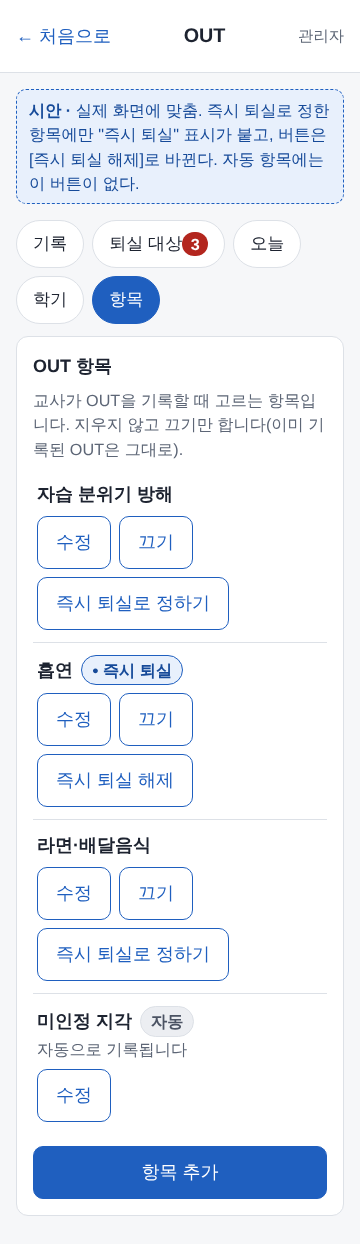
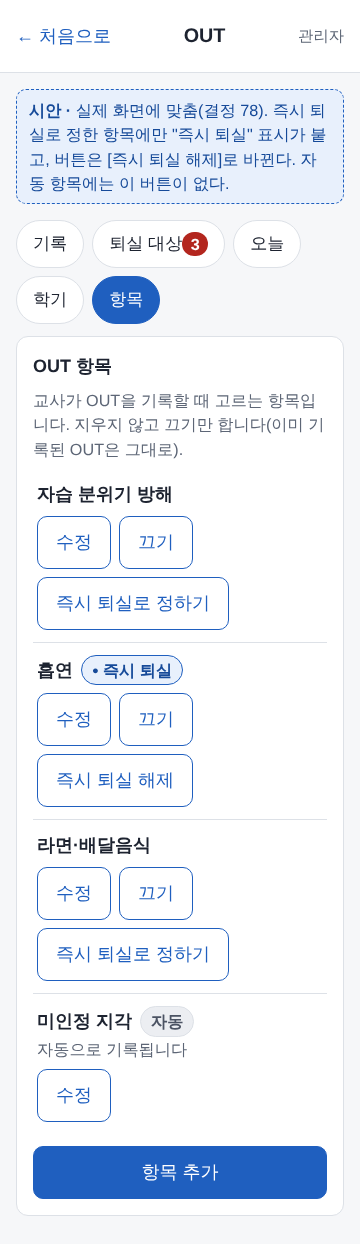
4단계 확인표 J·L 보강(결정 78 문구, 임시 퇴실 13단계) (#199)
Claude-Session: https://claude.ai/code/session_01By8Yaa8urwsSoHVw3FXUZa

Changed region(s): [[0.0611, 0.0611, 0.9167, 0.1527]]

diff --git a/docs/design/stage4-teacher-checks.md b/docs/design/stage4-teacher-checks.md
@@ -1,7 +1,7 @@
 # 4단계 선생님 확인 체크리스트
 
 > 4단계(시범 운영 준비)에 새로 들어간 기능을 선생님이 실제 Apps Script에서 따라 하며 확인하는 순서입니다. 형식은 `stage2-teacher-checks.md`·`stage3-teacher-checks.md`와 같습니다.
-> **A~F**는 코딩A가 만든 기능(휴일·기간 일괄 설정 C24, 근무 기록표 엑셀 C14b, 서류 체크리스트 C27, 연락처 C29, 방학 중식 C30)이고(`stage4-teacher-checks-coding-a.md`의 내용을 합친 것), **G~K**는 확인서 두 종(C25)·식수 집계(C19b)·입퇴실 세부(C26)·즉시 퇴실 항목(C19b·R17)·학사 프로그램(C28)입니다. **L**은 임시 퇴실·일괄 퇴실을 위한 자리입니다(병합 뒤 채웁니다).
+> **A~F**는 코딩A가 만든 기능(휴일·기간 일괄 설정 C24, 근무 기록표 엑셀 C14b, 서류 체크리스트 C27, 연락처 C29, 방학 중식 C30)이고(`stage4-teacher-checks-coding-a.md`의 내용을 합친 것), **G~K**는 확인서 두 종(C25)·식수 집계(C19b)·입퇴실 세부(C26)·즉시 퇴실 항목(C19b·R17)·학사 프로그램(C28)입니다. **L**은 임시 퇴실입니다(학년 일괄 퇴실 L13은 화면이 병합된 뒤 채웁니다).
 > **사진 읽는 법:** 각 절 끝의 "시안 사진"은 D 세션 미리보기의 휴대폰(360px) 모양입니다. 실제 화면은 숫자·이름이 다르지만 **모양과 표시가 이렇게 나오면 통과**입니다. 표의 "사진" 칸은 선생님이 찍은 실제 화면을 붙이는 자리입니다. 화면·버튼 이름이 실제와 다르면 ×가 아니라 "이름 차이"로 적어 주세요(디자인 세션이 이 문서를 고칩니다).
 
 ## 읽는 법
@@ -233,22 +233,22 @@
 
 관리자가 OUT **항목** 중 일부(예: 흡연·음주·라면·배달음식)를 **즉시 퇴실 항목**으로 정하면, 그 항목의 OUT **한 건이 한 번에 2OUT(퇴실 대상)**이 됩니다. 그 뒤 절차(학부모 면담 기록 → 관리자 퇴실 확정)는 같습니다.
 
-> **알려진 한계(오류 아님, 총괄에 알림):** 결정 78은 "지정한 **뒤에 기록된** 위반부터 2OUT, 이미 기록된 위반은 그대로 1OUT"인데, 지금 화면·서버(`setOutInstantRule`)는 아직 **옛 규칙(이미 기록된 OUT에도 소급)** 대로 움직이고, 확인창 문구도 옛 문구입니다. 규칙 함수(`outInstantNext_`)는 결정 78대로 만들어져 있고 화면 연결은 다음 PR입니다. 아래 J6은 지금 모양만 보고, **J9에서 연결 뒤 단계를 채웁니다.**
+> **결정 78(#192):** 즉시 퇴실로 **정한 뒤 기록된** 위반부터 한 건이 2OUT입니다. **정하기 전에 기록된 위반은 그대로 1OUT**(소급하지 않음)이고, 해제해도 정해 둔 동안 기록된 OUT은 2OUT으로 남습니다.
 
 | 번호 | 누가 | 누르는 것 | 이렇게 보이면 통과 | 사진 | 결과 |
 | --- | --- | --- | --- | --- | --- |
 | J1 | 소유자 | 홈 → **OUT** → **[항목]** 탭을 엽니다 | 항목 카드에 항목마다 **[수정]·[끄기]·[즉시 퇴실로 정하기]**가 있다. 자동 항목("미인정 지각" 등 **자동** 표시)에는 [즉시 퇴실로 정하기]가 **없다**. 즉시 퇴실로 정해 둔 항목이 없으면 "즉시 퇴실" 표시가 없다 | | |
-| J2 | 소유자 | [항목 추가]로 **"가짜: 즉시 퇴실 시험"** 항목을 만들고 그 줄의 **[즉시 퇴실로 정하기]**를 누릅니다 | 확인창 "즉시 퇴실 항목으로 정합니다"에 **"이 항목으로 OUT을 한 번 기록하면 바로 2OUT(퇴실 대상)이 됩니다." / "이번 기간에 이미 기록된 이 항목의 OUT에도 그대로 적용됩니다." / "퇴실 확정은 지금처럼 학부모 면담 기록 뒤 관리자가 합니다."**가 있다. (둘째 줄은 결정 78 이전의 소급 문구입니다 — 위 한계 참고) | | |
-| J3 | 소유자 | 확인창에서 **[즉시 퇴실로 정하기]**로 확정합니다 | 알림 "즉시 퇴실 항목으로 정했습니다."(이미 기록된 OUT이 있으면 "이번 기간 학생 N명이 퇴실 대상이 됩니다.")가 나오고 그 항목 이름 옆에 **"즉시 퇴실" 표시**가, 버튼은 **[즉시 퇴실 해제]**로 바뀐다. 다른 항목은 그대로다 | | |
-| J4 | 시험1 | **OUT 기록**에서 1OUT·2OUT이 없는 가짜 학생에게 방금 만든 **즉시 퇴실 항목으로 OUT 한 건**을 저장합니다 | 저장하면 그 학생이 **한 건만으로 퇴실 대상**(2OUT) 탭에 나타난다. [퇴실 확정]은 학부모 면담 기록 전까지 눌리지 않는다(2단계 C7과 같다). 홈 카드·OUT 현황의 퇴실 대상 숫자가 1 늘었다 | | |
+| J2 | 소유자 | [항목 추가]로 **"가짜: 즉시 퇴실 시험"** 항목을 만들고 그 줄의 **[즉시 퇴실로 정하기]**를 누릅니다 | 확인창 "즉시 퇴실 항목으로 정합니다"에 **"지금부터 기록되는 이 항목의 위반부터 OUT 한 번이 바로 2OUT(퇴실 대상)이 됩니다." / "이미 기록된 위반은 그대로 셉니다(소급하지 않습니다)." / "퇴실 확정은 지금처럼 학부모 면담 기록 뒤 관리자가 합니다."**가 있다 | | |
+| J3 | 소유자 | 확인창에서 **[즉시 퇴실로 정하기]**로 확정합니다 | 알림 **"즉시 퇴실 항목으로 정했습니다. 지금부터 기록되는 위반부터 2OUT으로 셉니다."**가 나오고(퇴실 대상이 새로 생기지 않는다) 그 항목 이름 옆에 **"즉시 퇴실" 표시**가, 버튼은 **[즉시 퇴실 해제]**로 바뀐다. 다른 항목은 그대로다 | | |
+| J4 | 시험1 | 정한 **뒤에**, **OUT 기록**에서 1OUT·2OUT이 없는 가짜 학생에게 방금 만든 **즉시 퇴실 항목으로 OUT 한 건**을 저장합니다 | 저장하면 그 학생이 **한 건만으로 퇴실 대상**(2OUT) 탭에 나타난다. [퇴실 확정]은 학부모 면담 기록 전까지 눌리지 않는다(2단계 C7과 같다). 홈 카드·OUT 현황의 퇴실 대상 숫자가 1 늘었다 | | |
 | J5 | 시험2(출결 담당 → 담임 → 근무표 담당자) | OUT 화면을 엽니다(주소 끝에 `?page=outs`) | **[항목] 탭이 없다.** 항목 이름은 보여도 **[즉시 퇴실로 정하기]·[끄기]가 없다**(관리자만). 서버에 직접 부르면 거부된다(컴퓨터 테스트가 확인함) | | |
-| J6 | 소유자 | **[즉시 퇴실 해제]**를 누릅니다(확인창 없이 바로 해제됨) | "즉시 퇴실을 해제했습니다."(영향 받는 학생이 있으면 "N명이 퇴실 대상에서 빠집니다.")가 나온다. "즉시 퇴실" 표시가 사라지고 버튼이 [즉시 퇴실로 정하기]로 돌아온다. (지금은 소급 규칙이라 J4의 학생이 **1OUT으로 돌아가는 것이 정상**) | | |
+| J6 | 소유자 | **[즉시 퇴실 해제]**를 누릅니다(확인창 없이 바로 해제됨) | **"즉시 퇴실을 해제했습니다. 이미 지정 중에 기록된 OUT은 그대로 2OUT으로 남고, 지금부터 기록되는 위반은 1OUT으로 셉니다."**가 나온다. "즉시 퇴실" 표시가 사라지고 버튼이 [즉시 퇴실로 정하기]로 돌아온다. **J4의 학생은 그대로 퇴실 대상**이다(정해 둔 동안 기록된 OUT) | | |
 | J7 | 시험1 | **해제한 뒤**, 다른 가짜 학생(OUT 없음)에게 같은 항목으로 OUT을 저장합니다 | 이번에는 **1OUT**이다(저장 전 "2OUT" 안내가 없다) | | |
-| J8 | 소유자 | 시험 항목 **"가짜: 즉시 퇴실 시험"**을 **[끄기]**로 끕니다 | 항목이 입력 목록에서 빠지고 **삭제되지 않는다**(꺼짐 표시로 남는다). 이미 기록된 OUT은 그대로다. 시험한 OUT은 OUT 취소로 되돌린다 | | |
-| J9 | (자리) | **결정 78 연결 뒤 채움:** 지정한 **뒤**에 기록한 OUT만 2OUT, 지정 전에 기록된 OUT은 그대로 1OUT, 해제하면 그 뒤 위반부터 1OUT, 확인창 문구도 바뀜 | 연결 PR 병합 뒤 작성 | | |
+| J8 | 소유자 | 시험 항목 **"가짜: 즉시 퇴실 시험"**(J9를 했다면 "가짜: 소급 시험"도)을 **[끄기]**로 끕니다 | 항목이 입력 목록에서 빠지고 **삭제되지 않는다**(꺼짐 표시로 남는다). 이미 기록된 OUT은 그대로다. 시험한 OUT은 OUT 취소로 되돌린다 | | |
+| J9 | 소유자 | **정하기 전에 기록된 OUT은 소급하지 않는지** 봅니다. 시험 항목을 [끄기] 전에 **새 항목 "가짜: 소급 시험"**을 만들어 (정하지 않은 채) 다른 가짜 학생에게 OUT 한 건을 기록하고, 그 뒤 그 항목을 **[즉시 퇴실로 정하기]**로 정합니다 | 정한 뒤에도 그 학생은 **1OUT 그대로**다(퇴실 대상 탭에 새로 나타나지 않는다). 이제 같은 학생에게 같은 항목으로 **새 OUT을 한 건 더** 기록하면 바로 **퇴실 대상**이 된다 | | |
 
-> 이미 확인됨: 즉시 항목 한 건 = 2OUT 판정 표(규칙 함수), **지정한 뒤 기록된 OUT부터**만 2OUT(`outInstantNext_`, 규칙 함수 수준 — 화면 연결은 J9), OUT 수를 세는 모든 곳(홈 카드·현황·퇴실 확정)이 같은 판정을 씀, 관리자 외 거부, 자동 항목은 지정할 수 없음.
-> 확인 못 한 것: 홈 카드·퇴실 대상 탭의 숫자가 J4·J6 전후로 **실제 시트에서** 바뀌는지(위 단계가 그 확인입니다).
+> 이미 확인됨: 즉시 항목 한 건 = 2OUT 판정 표(규칙 함수), **지정한 뒤 기록된 OUT부터**만 2OUT(`outInstantNext_`, 화면·서버 연결 #192), 지정 구간 이력은 스크립트 속성에 저장(시트 구조 변경 없음), OUT 수를 세는 모든 곳(홈 카드·현황·퇴실 확정)이 같은 판정을 씀, 관리자 외 거부, 자동 항목은 지정할 수 없음.
+> 확인 못 한 것: 홈 카드·퇴실 대상 탭의 숫자가 J4·J6 전후로 **실제 시트에서** 바뀌는지(위 단계가 그 확인입니다). J9는 **지정 시각 기준**이라 같은 분 안에 정하고 기록하면 순서가 헷갈릴 수 있으니 한두 분 사이를 두세요.
 
 **시안 사진 (360px)**
 
@@ -291,20 +291,38 @@
 | --- | --- | --- |
 | ![저장 확인](stage4-photos/program-confirm.png) | ![빼기 확인](stage4-photos/program-remove.png) | ![프로그램 취소 확인](stage4-photos/program-cancel.png) |
 
-## L. 임시 퇴실·학년 일괄 퇴실 (자리만 — 병합 뒤 채웁니다)
+## L. 임시 퇴실·학년 일괄 퇴실 (C26, 결정 70·74①·77, 약 35분)
 
-아직 병합되지 않은 기능이라 **단계는 비워 두고 어떤 것을 볼지만** 적습니다. 병합되면 디자인 세션이 이 절을 채우고, 그때까지 이 절의 번호 칸은 비어 있습니다.
+**건강상 임시 퇴실**: 급식을 끊고(조식은 바로, 석식은 미실시 규칙) 자리·침대도 비우지만, **다시 들어오는 것을 막지 않습니다**(일반 퇴실과 다른 점은 이것뿐). 사유는 **건강상만** 씁니다(가정 사정·대회 출전 같은 짧은 부재는 사전 특이사항). 시험한 신청은 끝에서 취소합니다(L9).
 
 | 번호 | 누가 | 누르는 것 | 이렇게 보이면 통과 | 사진 | 결과 |
 | --- | --- | --- | --- | --- | --- |
-| L1 | (자리) | **건강상 임시 퇴실**(복귀 예정일, 결정 70·77, `docs/plan/temp-leave.md`) — 임시 퇴실 저장·급식 정리·자리 비움 | 병합 뒤 작성 | | |
-| L2 | (자리) | 복귀 예정일이 지났을 때 담당교사 홈의 "복귀 예정일 지남"과 **일반 퇴실로 바꾸기** | 병합 뒤 작성 | | |
-| L3 | (자리) | 임시 퇴실 중인 **2OUT 대상 학생**의 퇴실 확정이 막히는지 | 병합 뒤 작성 | | |
-| L4 | (자리) | **3학년 수능 뒤 학년 일괄 퇴실**(결정 74①): 학년 고르기 → 미리보기 → 저장, 급식·좌석·방 정리 | 병합 뒤 작성 | | |
+| L1 | 시험1 | 홈 → **입퇴실 신청**에서 담당 가짜 **기숙사생**을 고르고 유형 칩을 봅니다 | 칩에 **학사 임시 퇴실**(꺼짐: "기숙사생은 '학사 및 기숙사 임시 퇴실'로 신청해 주세요.")과 **학사 및 기숙사 임시 퇴실**이 있다. 기숙사에 없는 학사생에게는 반대로 "학사 임시 퇴실"만 켜져 있다 | | |
+| L2 | 시험1 | **학사 및 기숙사 임시 퇴실**을 고릅니다 | 아래에 **[임시 퇴실] 카드**가 나온다: **복귀 예정일**(날짜 칸), "임시 퇴실은 건강상 사유만 씁니다…" 안내, **[사전 특이사항 입력으로 가기]** 링크, "임시 퇴실도 일반 퇴실처럼 급식을 끊고 자리를 비웁니다. 다른 점은 다시 들어오는 것을 막지 않는 것뿐입니다." | | |
+| L3 | 시험1 | 복귀 예정일을 **비우거나 적용일보다 앞으로** 두고 [입퇴실 신청]을 눌러 봅니다 | 저장되지 않고 오류가 칸 아래에 나온다: 비우면 **"복귀 예정일을 날짜로 입력해 주세요."**, 적용일 이하이면 **"복귀 예정일은 퇴실일 뒤여야 합니다."** | | |
+| L4 | 시험1 | 사유 칸에 **"임시 퇴실"** 두 글자만 적고 저장해 봅니다(예약어) | **"'임시 퇴실' 글자는 임시 퇴실 유형에서만 쓰입니다. 다른 사유를 적어 주세요."**로 막힌다 | | |
+| L5 | 시험1 | 복귀 예정일을 **며칠 뒤**로, 사유 "가짜: 독감 입원", 석식 **중단**으로 저장합니다(확인창에서 저장) | 확인창 줄에 **"복귀 예정일 N월 N일(요일) · 건강상 임시 퇴실은 재입실을 막지 않습니다"**가 있다. 저장 뒤 학생 기록 줄에 **"임시 퇴실 중 · 복귀 예정 …"**이 보이고, 자리가 공석이 되며 조식이 적용일부터 중단된다 | | |
+| L6 | 소유자 | 같은 학생을 입퇴실 신청에서 다시 열어 **학사 입실**을 고릅니다 | **재입실이 막히지 않는다**(일반 퇴실은 "다음 학기 끝까지 다시 들어올 수 없다"고 막힌다 — 비교용으로 G7에서 일반 퇴실한 학생을 열어 봅니다) | | |
+| L7 | 소유자 | **복귀 예정일이 이미 지난** 가짜 임시 퇴실이 필요하면, 신청 일시·적용일을 과거(예: 일주일 전)로, 복귀 예정일을 어제로 해서 저장합니다 | 담당교사 홈(관리자·학사 교사)에 카드 **"복귀 예정일 지남"**이 나온다: "임시 퇴실 중인 학생 N명의 복귀 예정일이 지났습니다." 줄마다 "학생 · 복귀 예정 …(N일 지남)" 링크, 아래 안내 "학생을 눌러 기록에서 [일반 퇴실로 바꾸기]를 누를 수 있습니다. 복귀했다면 입퇴실 신청에서 학사 입실을 기록해 주세요." | | |
+| L8 | 시험1 | 카드의 학생을 눌러 기록으로 가서 줄의 **[일반 퇴실로 바꾸기]**를 누릅니다 | 줄에 경고색으로 "임시 퇴실 중 · 복귀 예정 … (예정일이 지났습니다)". 확인 시트 "일반 퇴실로 바꿉니다": **"재입실 제한은 처음 임시 퇴실한 날(…)부터 셉니다. …까지 다시 들어올 수 없습니다."**, "급식·자리는 임시 퇴실 때와 같이 이미 정리되어 있어 그대로입니다.", "기록은 지우지 않고 임시 퇴실 신청서를 취소 처리합니다." | | |
+| L9 | 시험1 | 시트에서 [일반 퇴실로 바꾸기]로 확정합니다 | 알림 "일반 퇴실로 바꿨습니다." 줄이 일반 퇴실로 바뀌고 **재입실이 막힌다**(L6처럼 학사 입실을 시도하면 막힘). `입퇴실` 기록은 지워지지 않고 옛 임시 퇴실 신청서가 **취소**로 남는다 | | |
+| L10 | 소유자 | **임시 퇴실 중인 학생이 2OUT 퇴실 대상**이 되게 합니다(OUT 2건 기록 후 면담까지) → OUT 화면 **[2OUT]** 탭 | 그 학생 카드에 **"임시 퇴실 중이라 복귀 뒤에 확정합니다(복귀 예정 …)."**가 보이고 **[퇴실 확정]이 막혀 있다**. 복귀 뒤(학사 입실 기록) 확정할 수 있다 | | |
+| L11 | 시험2(출결 담당 → 담임 → 학생·학부모) | 입퇴실·급식 학생 기록과 홈을 봅니다 | **[일반 퇴실로 바꾸기]·"복귀 예정일 지남" 카드가 없다**(담당교사·관리자만). 입퇴실 신청에서 임시 퇴실을 고르는 화면도 없다(담당교사·관리자만 신청) | | |
+| L12 | 시험1 | 시험한 신청을 **[퇴실 취소]**(퇴실류)로 되돌립니다 | 취소 확인 시트에 같이 취소되는 것(급식 복구 등)이 보이고, 취소하면 학생이 다시 입실 상태가 된다. 지워진 행은 없다 | | |
+| L13 | (자리) | **3학년 수능 뒤 학년 일괄 퇴실**(결정 74①): 학년 고르기 → 미리보기 → 저장, 급식·좌석·방 정리, 되돌리기 | 화면(C26)이 병합된 뒤 작성. 규칙(R20 `movePlan_` 여러 학생)은 main에 있음 | | |
+
+> 이미 확인됨: 임시 퇴실 규칙(재입실 안 막음·일반 퇴실과 같은 급식·자리 정리), 사유 예약어 거부, 일반 퇴실로 바꾸기(같은 적용일·같은 신청 일시라 재입실 제한이 처음 임시 퇴실한 날부터), 임시 퇴실 중 2OUT 퇴실 확정 막힘, 복귀 예정일 지남 카드 계산, 담당교사·관리자만 허용.
+> 확인 못 한 것: L7의 "복귀 예정일이 지난" 가짜 데이터는 지금 시드에 없어 **손으로 만들어야** 합니다(데이터 부족이면 번호와 함께 알려 주세요 — 총괄이 시드를 보강). 임시 퇴실이 **좌석 초안·방 초안**에서 빠지는지는 G/K에서 직접 보지 않았습니다.
+
+**시안 사진 (360px)**
+
+| L2 임시 퇴실 입력 (`moves-temp-leave`) | L7 홈 카드 (`home-temp-overdue`) | L8 일반 퇴실로 바꾸기 (`moves-temp-convert`) |
+| --- | --- | --- |
+| ![임시 퇴실 입력](stage4-photos/moves-temp-leave.png) | ![복귀 예정일 지남 카드](stage4-photos/home-temp-overdue.png) | ![일반 퇴실로 바꾸기](stage4-photos/moves-temp-convert.png) |
 
 ## 확인 뒤
 
-- ×가 하나도 없으면 총괄에게 "4단계 확인 통과"라고만 알려 주세요(L은 병합 전이라 빠집니다).
+- ×가 하나도 없으면 총괄에게 "4단계 확인 통과"라고만 알려 주세요(L13 학년 일괄 퇴실은 화면 병합 전이라 빠집니다).
 - ×가 있으면 **번호 + 한 줄 + 화면 사진**을 총괄에게 보냅니다(예: "G8 입퇴실 확인서에 구분 ○가 하나만 있음", "J4 즉시 퇴실 항목인데 2OUT 안내가 없음").
 - 특히 **A1·A2(실제 시트 열 끼우기), C2·H1(실제 엑셀 열림), E8~E10(전화번호가 어디에도 안 나옴), G2·G8·G14(실제 PDF와 빈 양식 비교), G12(드라이브에 파일이 안 남음), J4·J6(즉시 퇴실 판정이 지정한 뒤부터)**는 컴퓨터 테스트가 흉내만 낸 것이라 꼭 봐 주세요.
 - 가짜 데이터가 모자라 단계를 못 따라 하면 번호와 "데이터 부족"이라고 적어 주세요. 총괄이 가짜 데이터를 보강합니다.

diff --git a/docs/design/screens.md b/docs/design/screens.md
@@ -497,6 +497,9 @@ D12 시안(`design/preview/stage4-screens.js`, 실행 `node design/preview/stage
 | `outs-instant-confirm` | [즉시 퇴실로 정하기] 확인창 | 관리자 |
 | `moves-enter-first` | 신규 입실: 적용일 기본값이 다음 달 1일(결정 74③) | 학사 교사·관리자 |
 | `moves-leave-5day` | 퇴실 저장 확인창: "새 달 5일이 지나 퇴실하면 그달 비용을 냅니다" 안내(결정 74④, 비용 계산 없음) | 학사 교사·관리자 |
+| `moves-temp-leave` | 입퇴실 신청: [학사 및 기숙사 임시 퇴실]을 고르면 복귀 예정일(필수)·건강상 안내(결정 70·77) | 학사 교사·관리자 |
+| `moves-temp-convert` | 학생 기록 줄 "임시 퇴실 중·복귀 예정"과 [일반 퇴실로 바꾸기] 확인 시트 | 학사 교사·관리자 |
+| `home-temp-overdue` | 담당교사 홈 "복귀 예정일 지남" 카드 | 학사 교사·관리자 |
 
 ### C27-1. 서류 체크리스트 (실제 화면 `screen_docs.html`에 맞춘 시안)
 
